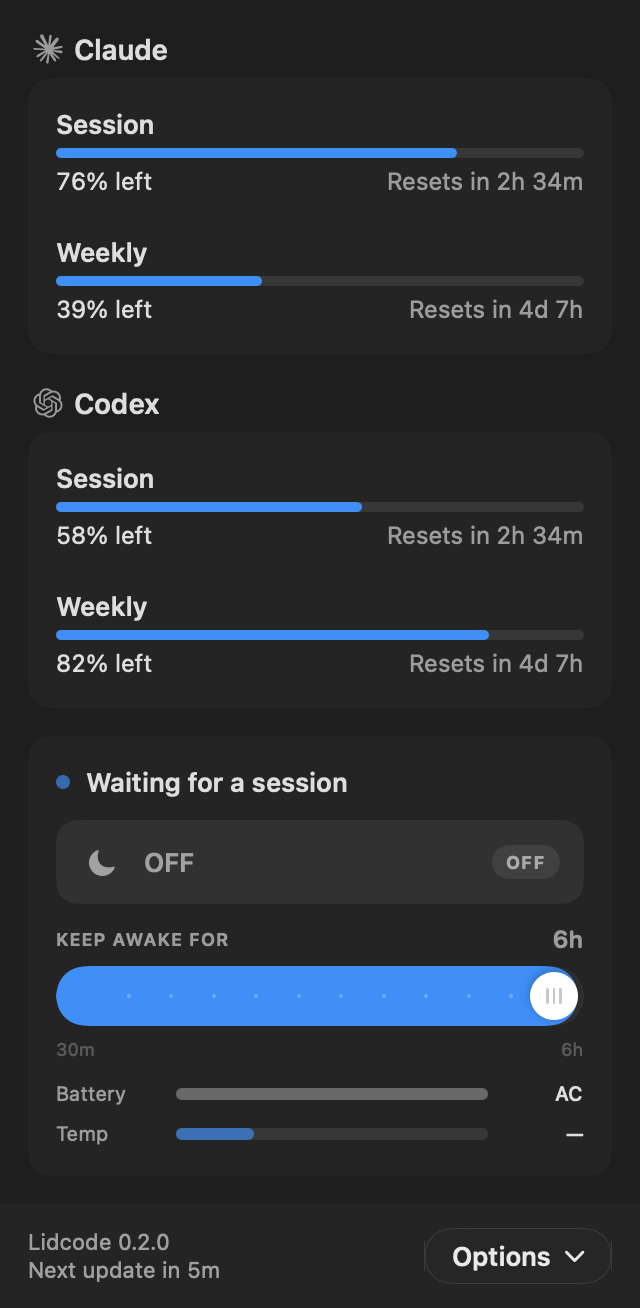
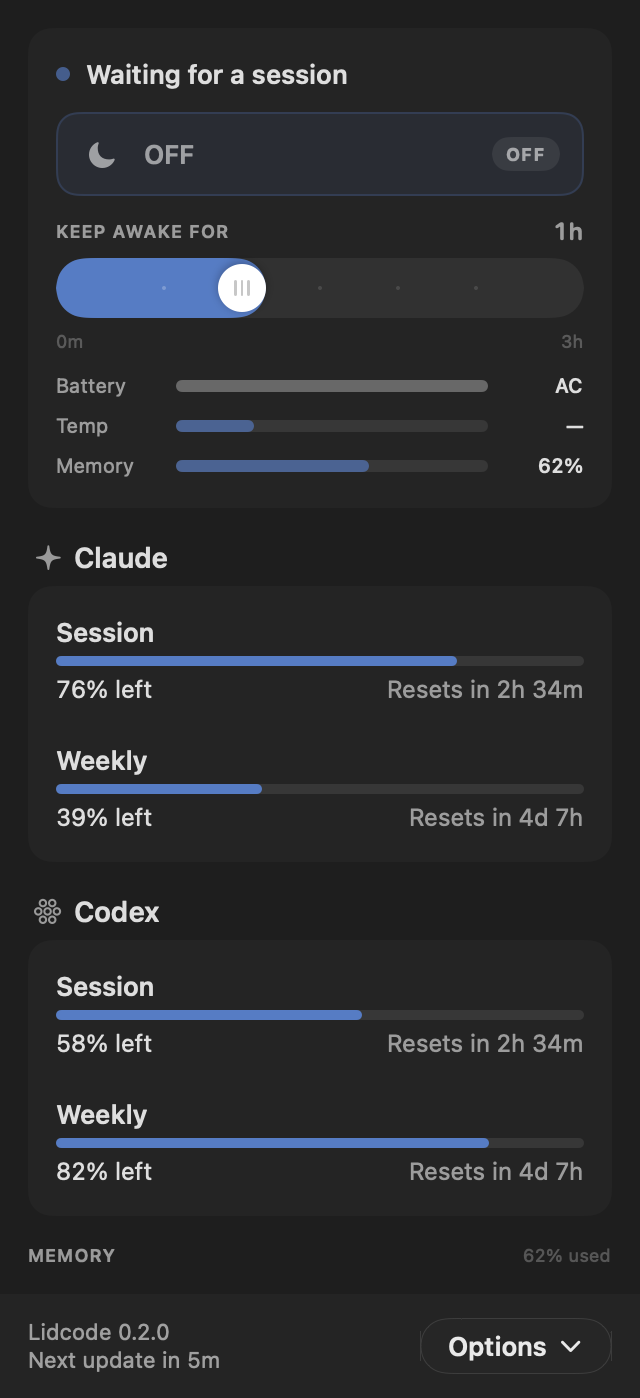
docs: refresh app screenshots and gate evidence

diff --git a/GATES.md b/GATES.md
@@ -1,8 +1,8 @@
-# Gates: Lidcode provider dashboard and public download
+# Gates: Current Lidcode repository, safety overrides, and screenshots
 
 OWNS: Sources/**, Tests/**, Script/**, .github/**, README.md, docs/**, GATES.md
 
-Scope: Match OpenUsage 0.7.13's provider-card layout in Lidcode, let users add their own AI profiles, and publish a complete installable Mac download.
+Scope: Keep the current source and battery/temperature override UI intact, fix current check failures, and refresh the documented native screens.
 
 - [x] G1: Native app and provider behavior pass the Swift test suite.
   CHECK: swift test
@@ -19,3 +19,21 @@ Scope: Match OpenUsage 0.7.13's provider-card layout in Lidcode, let users add t
 
 - [x] G4: GitHub contains the update and a downloadable release with setup instructions.
   EVIDENCE: main pushed; v0.2.0 published at https://github.com/princewagan/lidcode/releases/tag/v0.2.0 with DMG, ZIP and SHA256SUMS.txt. GitHub Actions run 37185932008 succeeded (500 tests, zero failures; signed bundle and DMG verified; publish passed). Downloaded CI assets to /tmp/lidcode-ci-release-verify: both SHA-256 checks passed; extracted bundle passed codesign --verify --deep --strict; bundled CLI reports 0.2.0. Repository remains private; broader public sharing awaits the user's visibility choice.
+
+- [x] G5: The current source revision passes the full Swift test suite.
+  CHECK: swift test && echo "All Swift tests passed"
+  EXPECT: All Swift tests passed
+  EVIDENCE: exit=0; shell=/bin/sh; cwd=/Users/princewagan/lidcode; path=faf417a81eb0/54 entries; output=[19/20] Applying LidCodeApp | Build complete! (1.96s)
+
+- [x] G6: The current native SwiftUI screens render from the checked-out source.
+  CHECK: swift run LidCodeApp --render-preview /tmp/lidcode-refresh-capture
+  EXPECT: Dashboard previews rendered; hosted navigation regression passed
+  EVIDENCE: exit=0; shell=/bin/sh; cwd=/Users/princewagan/lidcode; path=faf417a81eb0/54 entries; output=[7/8] Applying LidCodeApp | Build of product 'LidCodeApp' complete! (4.94s)
+
+- [x] G7: The tracked dashboard, profile editor, and settings screenshots match the reviewed fresh captures.
+  CHECK: cmp -s /tmp/lidcode-home-current-20261004/dashboard-dark.png docs/screenshots/dashboard-dark.png && cmp -s /tmp/lidcode-refresh-capture/dashboard-light.png docs/screenshots/dashboard-light.png && cmp -s /tmp/lidcode-refresh-capture/customize-dark.png docs/screenshots/customize-dark.png && cmp -s /tmp/lidcode-refresh-capture/settings-dark.png docs/screenshots/settings-dark.png && cmp -s /tmp/lidcode-refresh-capture/settings-light.png docs/screenshots/settings-light.png && echo "tracked screenshots match fresh SwiftUI renders"
+  EXPECT: tracked screenshots match fresh SwiftUI renders
+  EVIDENCE: exit=0; shell=/bin/sh; cwd=/Users/princewagan/lidcode; path=faf417a81eb0/54 entries; output=tracked screenshots match fresh SwiftUI renders
+
+- [x] G8: Dark and light dashboard and settings captures, plus the dark profile editor, were visually reviewed at native panel size.
+  EVIDENCE: Fresh native SwiftUI renders reviewed at panel size; dashboard layouts are clean in both appearances, the dark profile editor is legible, and Settings shows the battery and temperature override controls enabled with their current thresholds.
